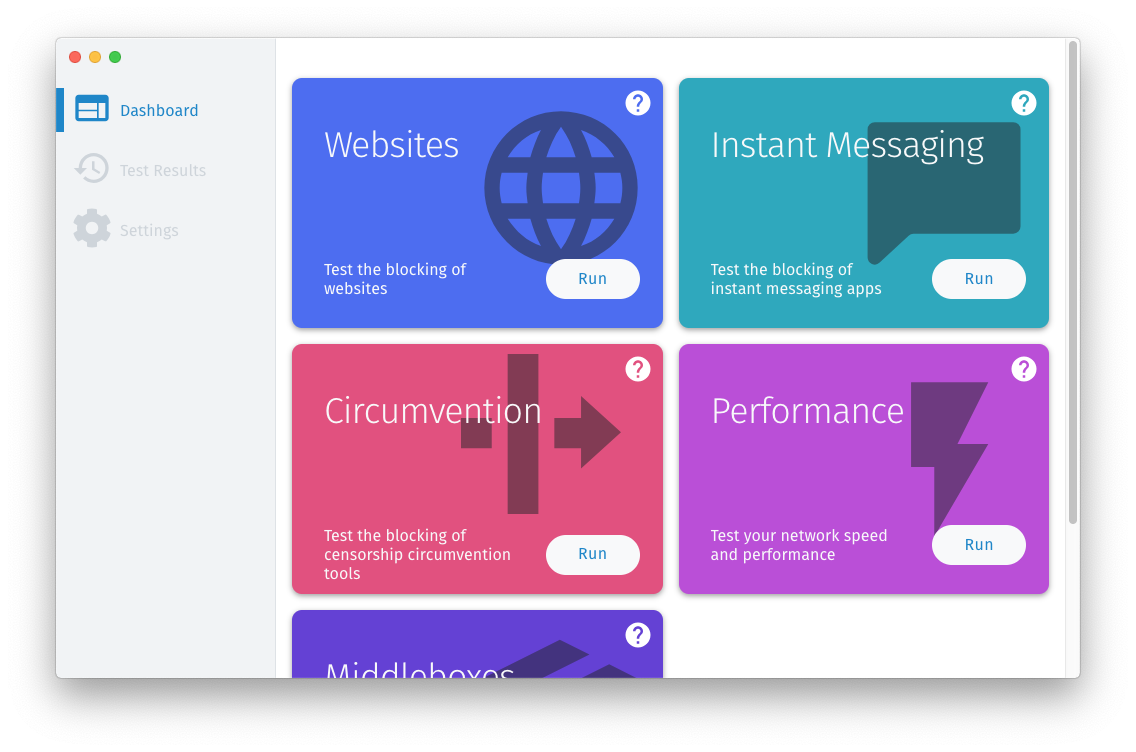
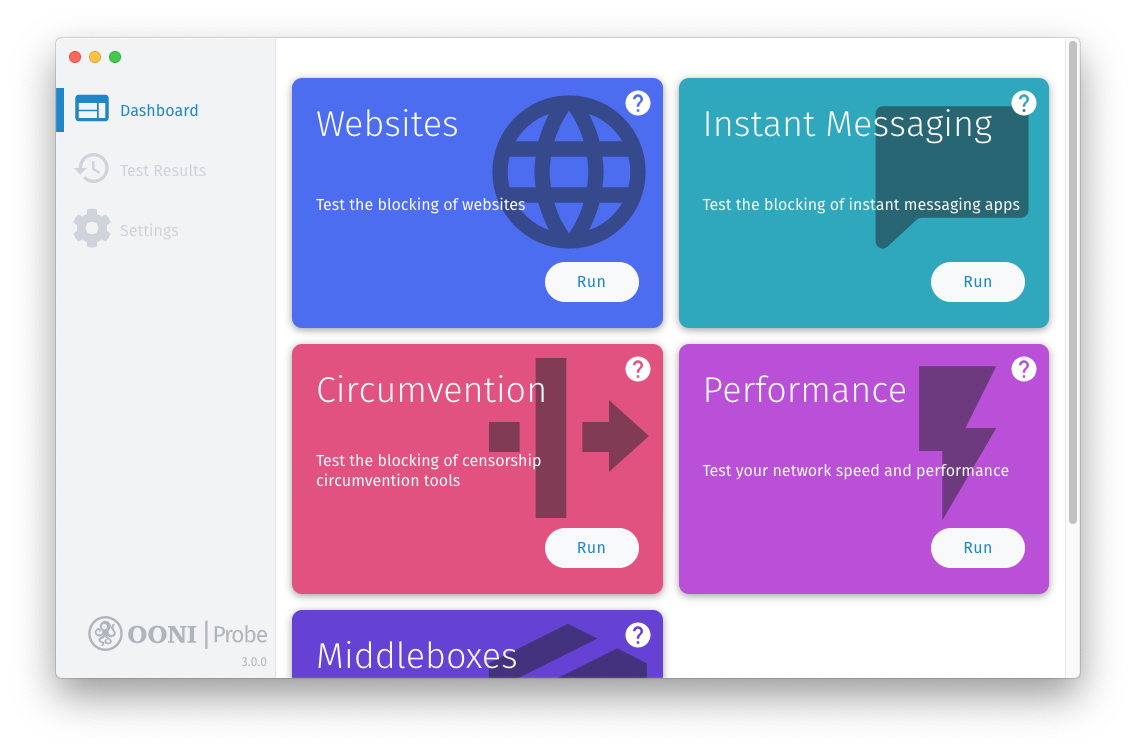
Add download button and update screenshot

diff --git a/content/post/2020-ooni-probe-desktop-app/index.md b/content/post/2020-ooni-probe-desktop-app/index.md
@@ -13,7 +13,7 @@ Today, OONI is thrilled to announce the public launch of the **new OONI
 Probe desktop app** that you can download and install on **Windows** and
 **macOS** to measure internet censorship and network performance.
 
-=> EMBED TWO DOWNLOAD BUTTONS FOR WINDOWS AND MACOS
+{{<oonibtn href="https://ooni.org/install/desktop" text="Install OONI Probe Desktop app">}}
 
 By running the tests in the new OONI Probe desktop app, you can measure:
 
